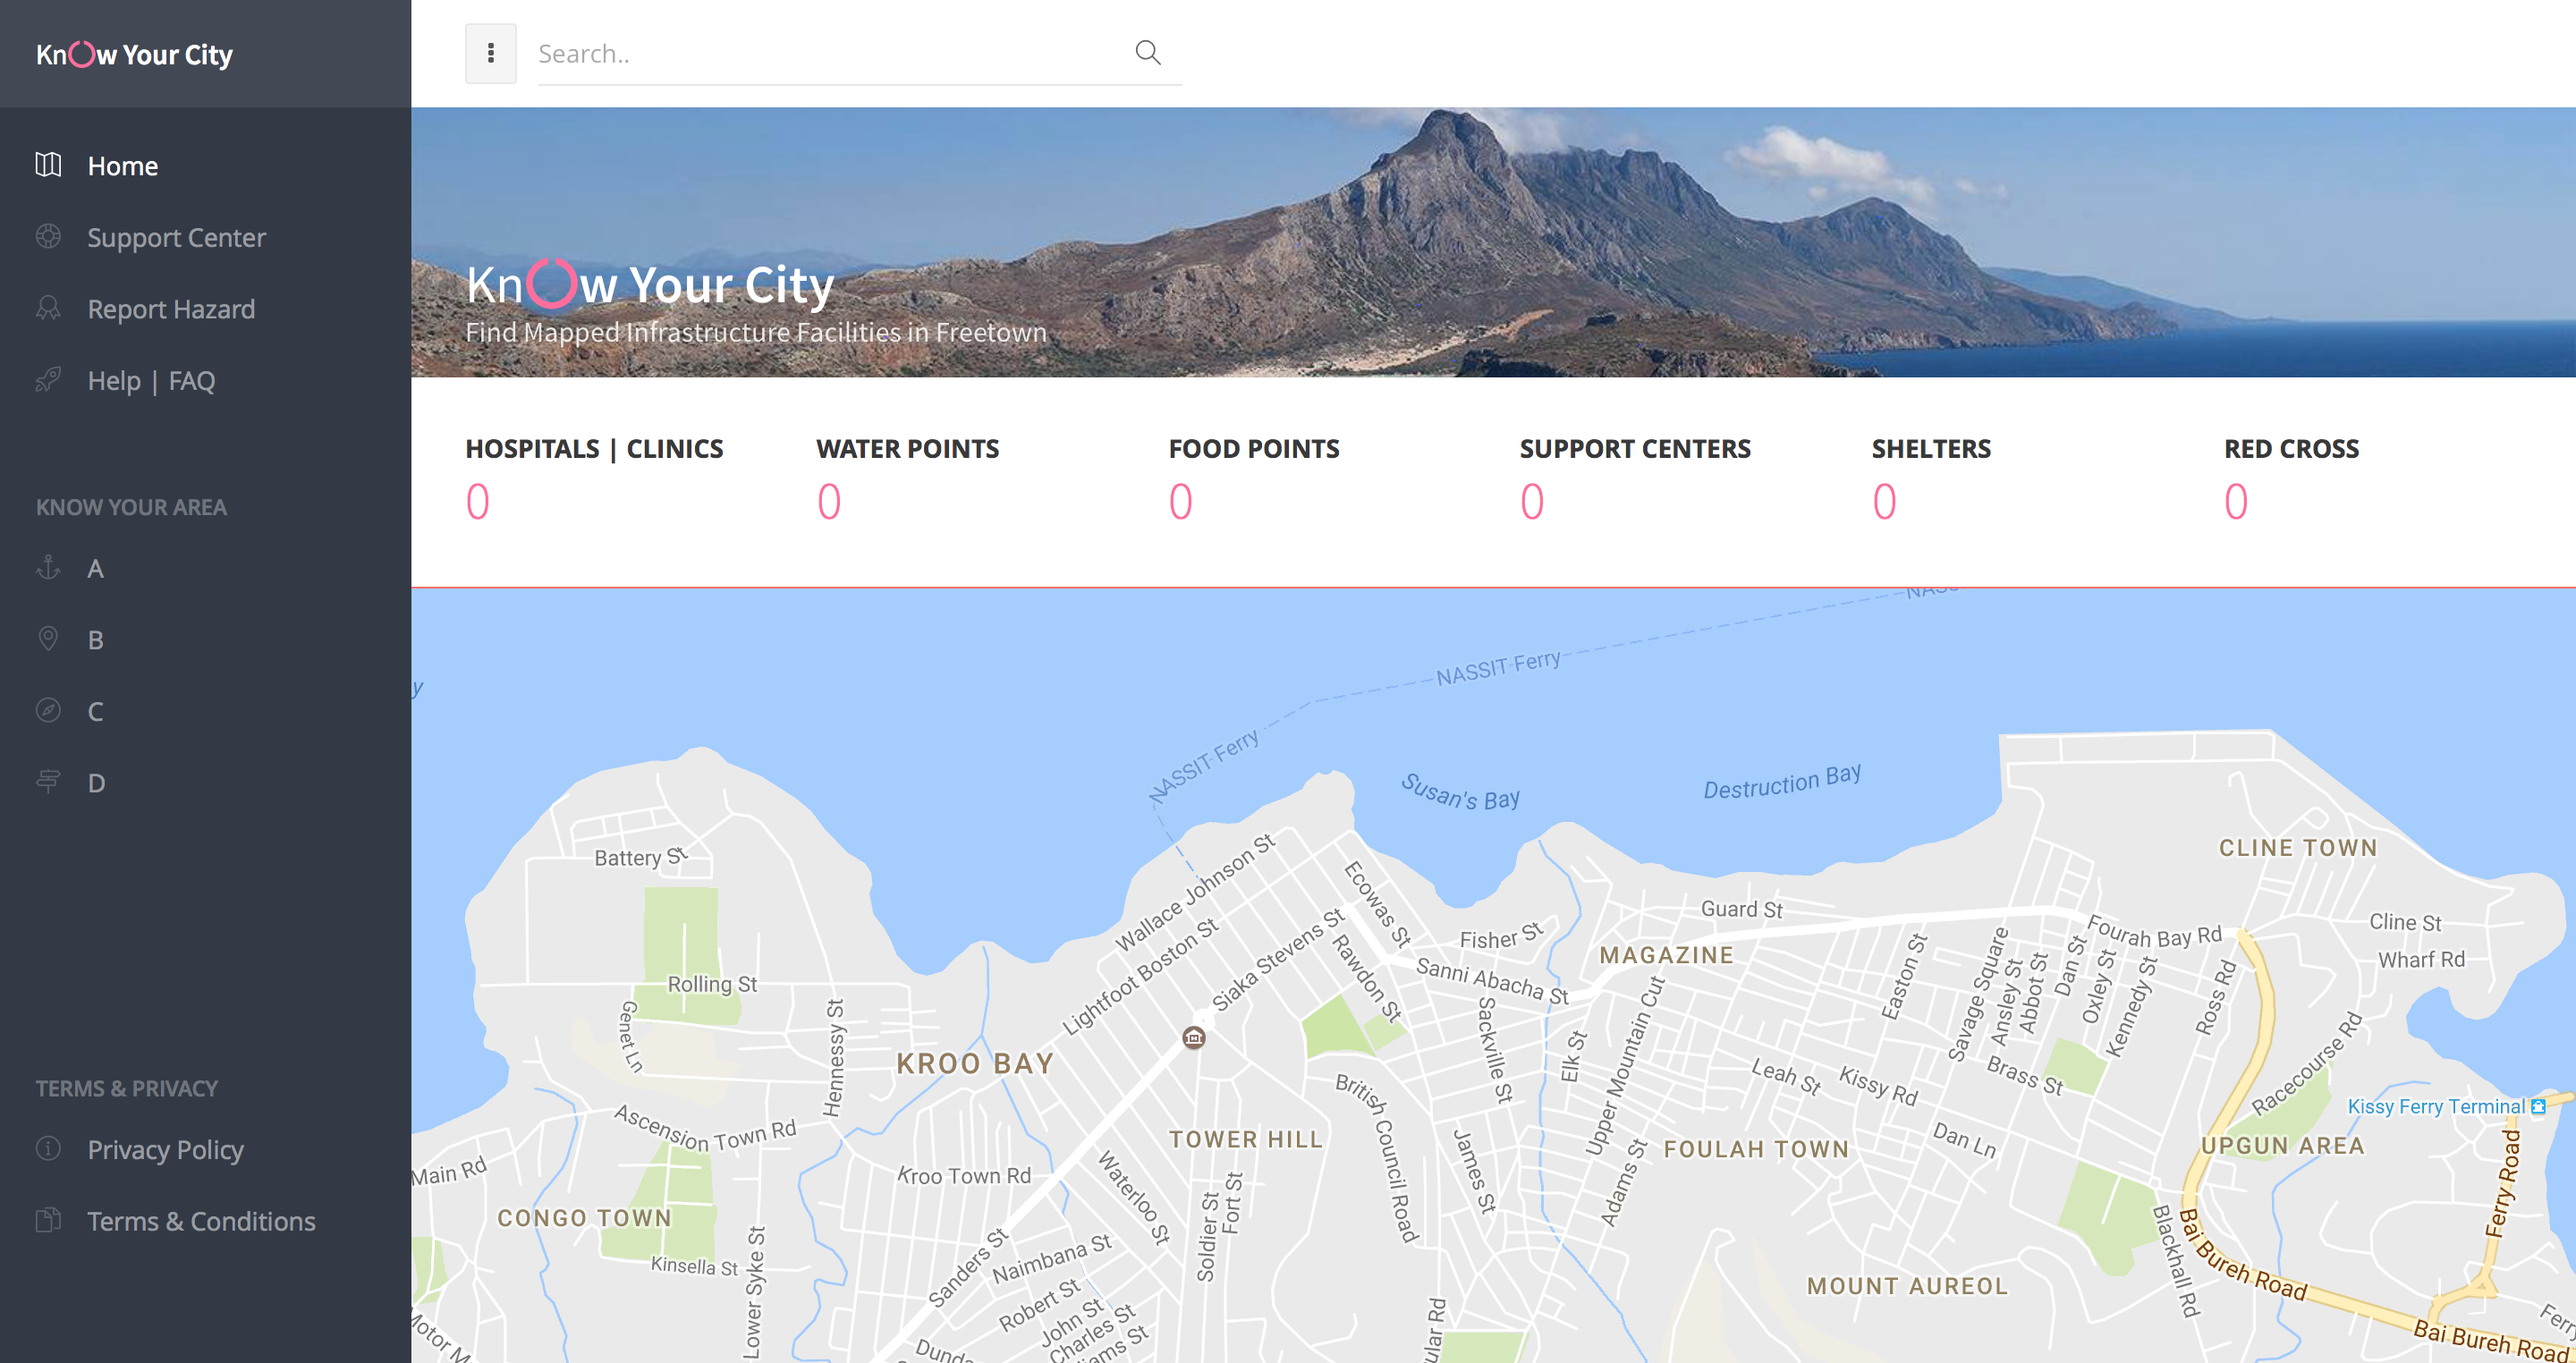
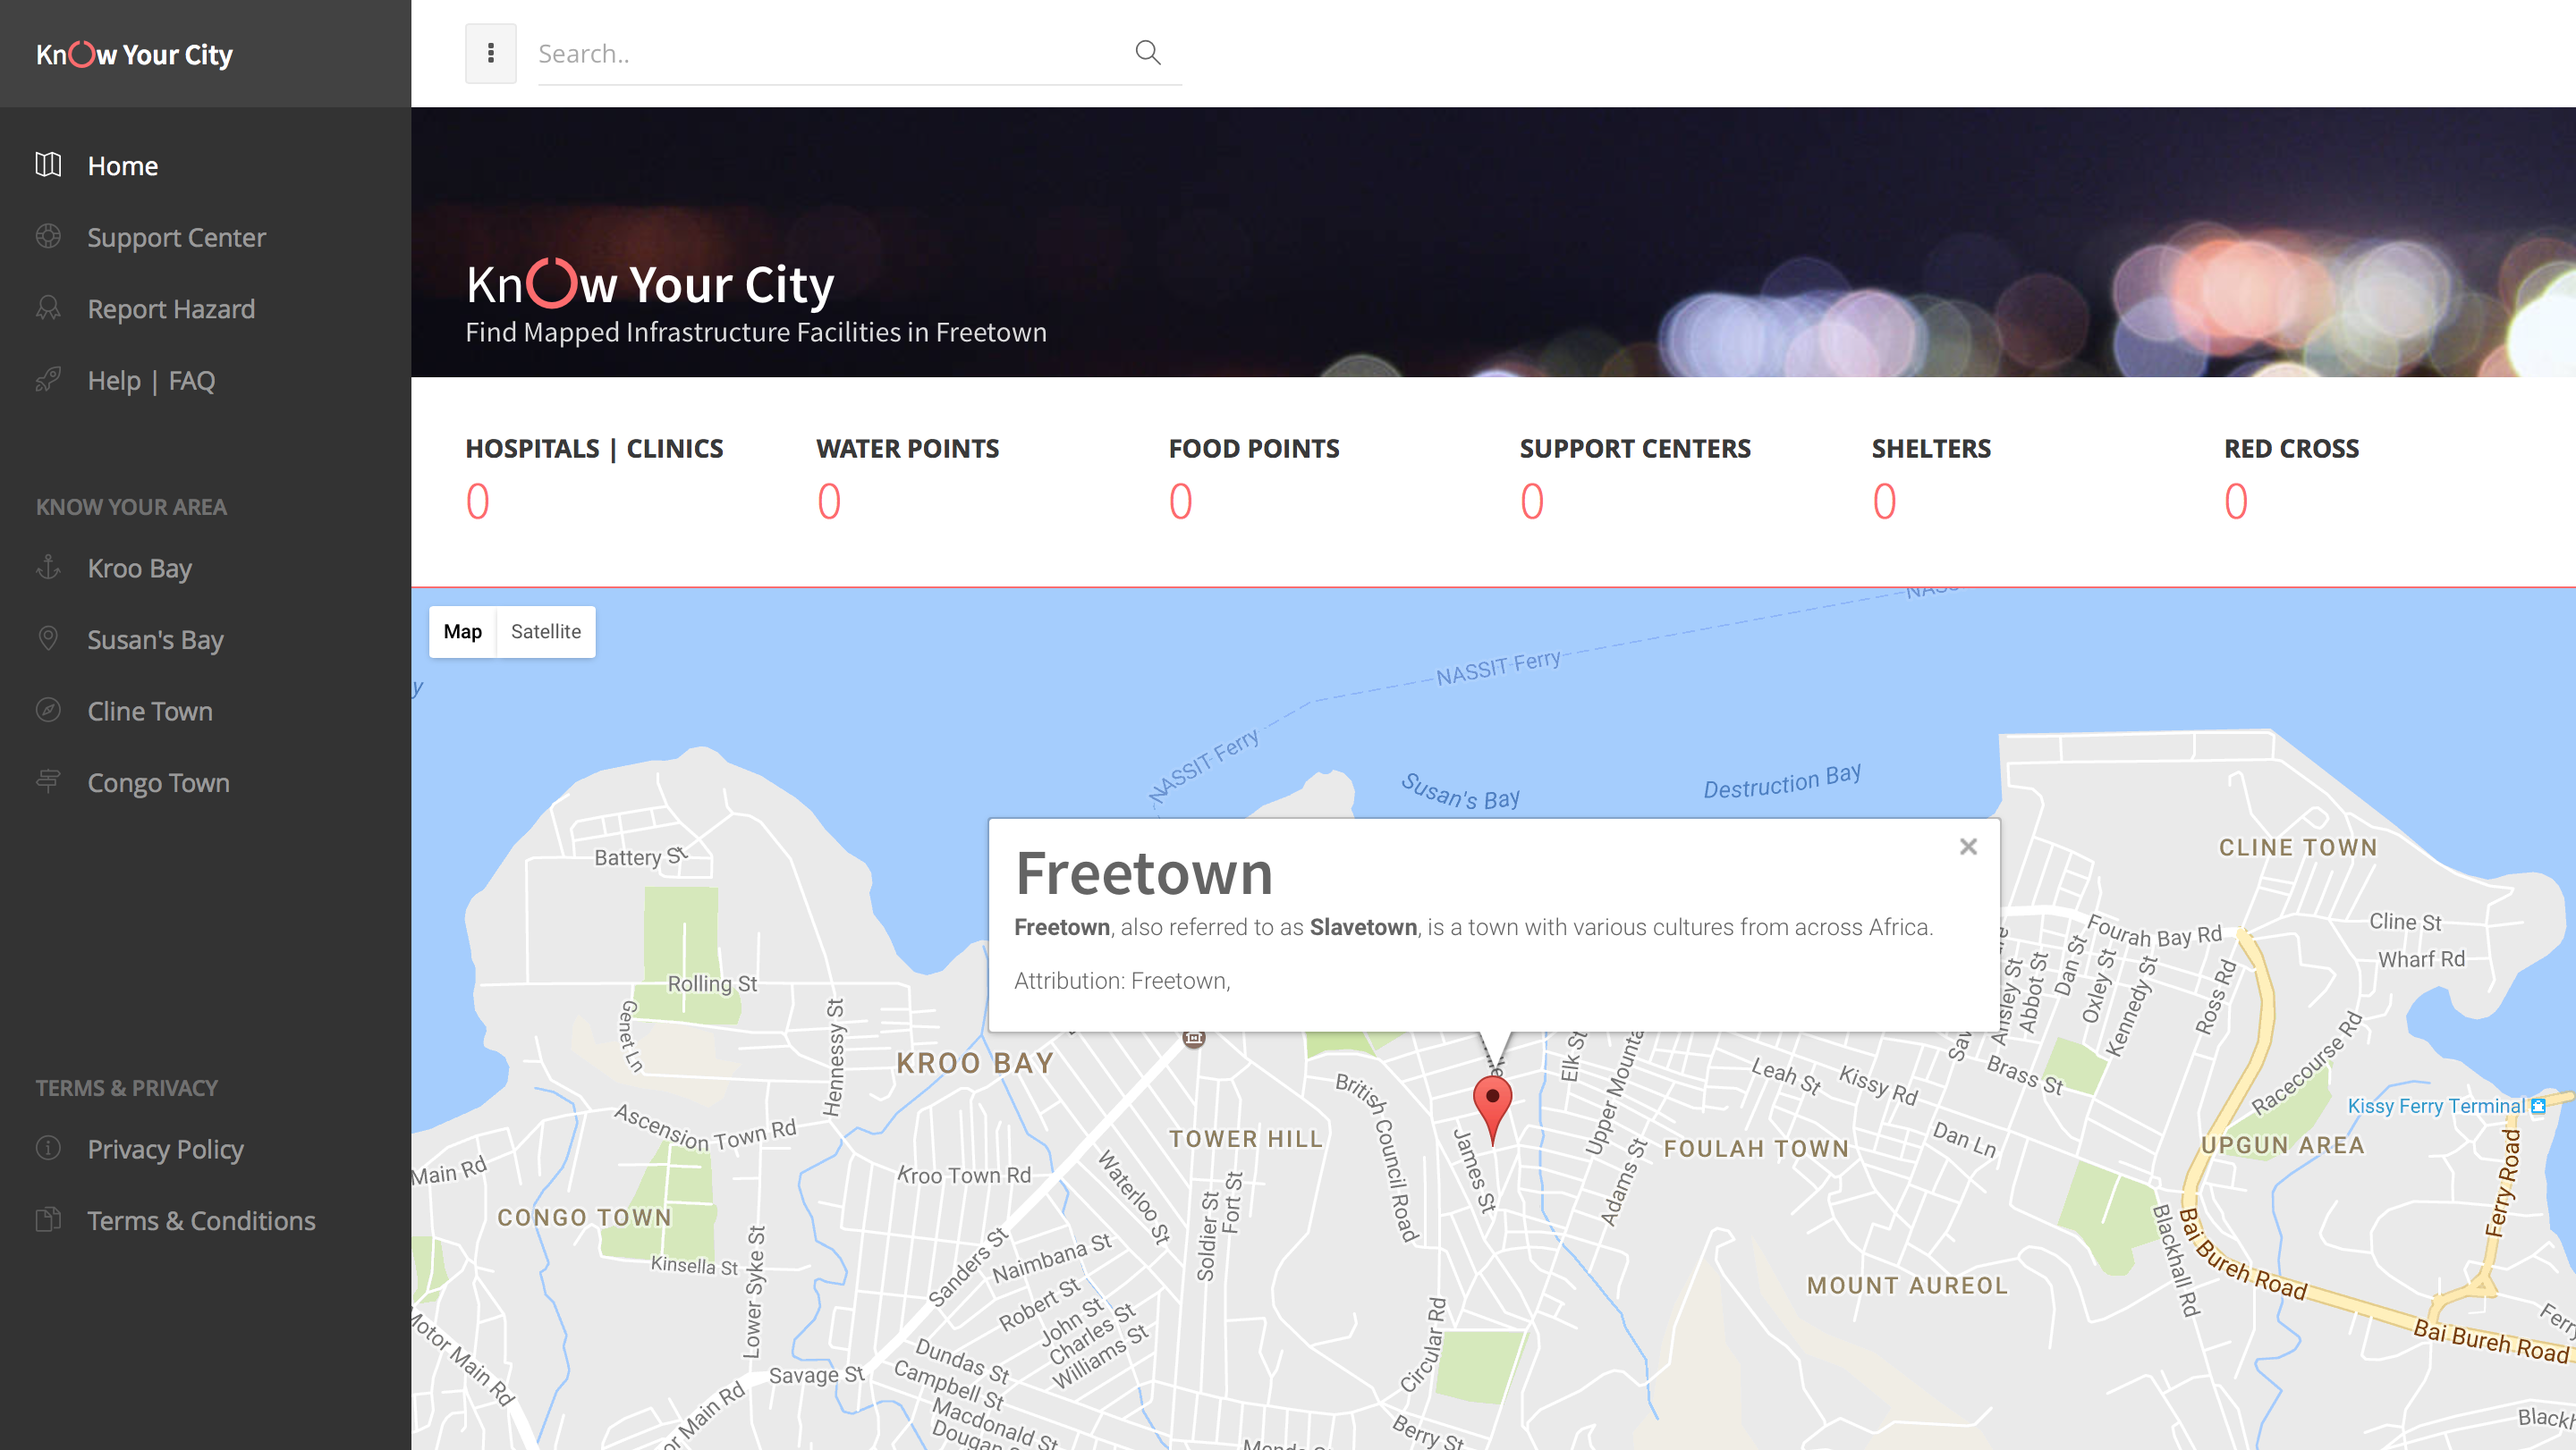
quick updates

diff --git a/templates/knowyourcity/index.html b/templates/knowyourcity/index.html
@@ -146,16 +146,16 @@
                                 <br>
                                 <li class="nav-main-heading"><span class="sidebar-mini-hide">Know Your Area</span></li>
                                 <li>
-                                    <a class="submenu" href="#"><i class="si si-anchor"></i><span class="sidebar-mini-hide">A</span></a>
+                                    <a class="submenu" href="#"><i class="si si-anchor"></i><span class="sidebar-mini-hide">Kroo Bay</span></a>
                                 </li>
                                 <li>
-                                    <a class="submenu" href="#"><i class="si si-pointer"></i><span class="sidebar-mini-hide">B</span></a>
+                                    <a class="submenu" href="#"><i class="si si-pointer"></i><span class="sidebar-mini-hide">Susan's Bay</span></a>
                                 </li>
                                 <li>
-                                    <a class="submenu" href="#"><i class="si si-compass"></i><span class="sidebar-mini-hide">C</span></a>
+                                    <a class="submenu" href="#"><i class="si si-compass"></i><span class="sidebar-mini-hide">Cline Town</span></a>
                                 </li>
                                 <li>
-                                    <a class="submenu" href="#"><i class="si si-directions"></i><span class="sidebar-mini-hide">D</span></a>
+                                    <a class="submenu" href="#"><i class="si si-directions"></i><span class="sidebar-mini-hide">Congo Town</span></a>
                                 </li>
                                 <br>
                                 <br>
